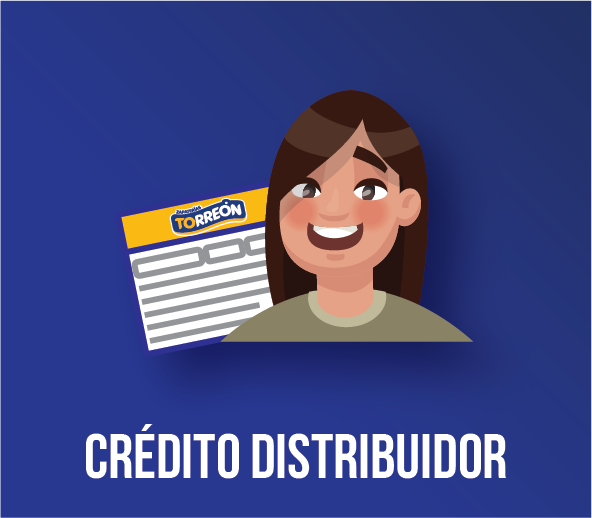
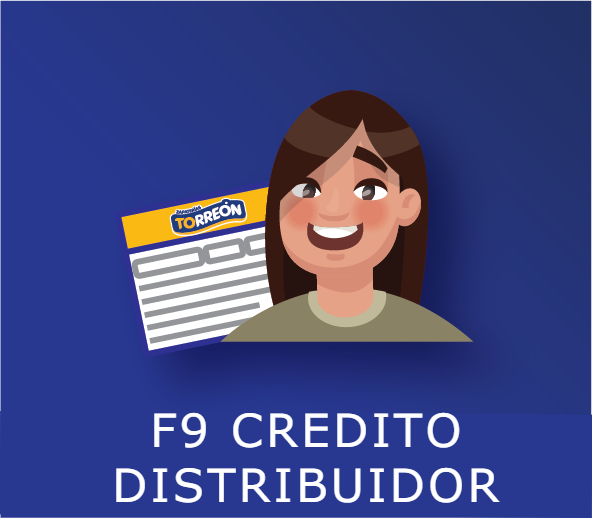
Actualizacion Botones Forma Pago con texto de sus teclas de Funcion correspondientes.

Changed region(s): [[0.1216, 0.7722, 0.8514, 0.9884], [0.8514, 0.9884, 1.0, 1.0]]

diff --git a/SirCoPOS.Client/Views/Tabs/CajaView4.xaml b/SirCoPOS.Client/Views/Tabs/CajaView4.xaml
@@ -23,6 +23,14 @@
         <c:FPagoToTextConverter x:Key="FPagoText" />
         <BooleanToVisibilityConverter x:Key="boolConv"/>
         <c:ValueVisibilityConverter x:Key="valvis"/>
+        <Style x:Key="ToolTipText" TargetType="TextBlock">
+            <Setter Property="HorizontalAlignment" Value="Center" />
+            <Setter Property="FontFamily" Value="Comic Sans MS"/>
+            <Setter Property="FontSize" Value="14"/>
+            <Setter Property="Background" Value="DeepSkyBlue"/>
+            <Setter Property="Foreground" Value="Black"/>
+            
+        </Style>
     </UserControl.Resources>
     <UserControl.DataContext>
         <vm:CajaViewModel/>
@@ -562,9 +570,9 @@
             </Grid>
         </tk:ChildWindow>
 
-        <tk:ChildWindow  Caption="Formas de Pago"  DesignerWindowState="Closed" WindowState="{Binding ShowPagos, Converter={StaticResource windowState}, Mode=TwoWay}" Height="570" Width="740" WindowStartupLocation="Center" IsModal="True" HorizontalAlignment="Left" VerticalAlignment="Top">
+        <tk:ChildWindow  Caption="Formas de Pago" DesignerWindowState="Closed" WindowState="{Binding ShowPagos, Converter={StaticResource windowState}, Mode=TwoWay}" Height="565" Width="745" WindowStartupLocation="Center" IsModal="True" HorizontalAlignment="Left"  VerticalAlignment="Top">
             <Grid>
-                <ItemsControl ItemsSource="{Binding FormasPago}" Padding="10">
+                <ItemsControl ItemsSource="{Binding FormasPago}">
                     <ItemsControl.ItemsPanel>
                         <ItemsPanelTemplate>
                             <WrapPanel Orientation="Horizontal"/>
@@ -573,15 +581,17 @@
                     <ItemsControl.ItemTemplate>
                         <DataTemplate>
                             <StackPanel>
-                                <Button Width="160" Height="140" Margin="0,0,10,10" IsEnabled="{Binding Value.Enabled}">
+                                <Button Width="170" Height="160" Margin="5,5,5,5" IsEnabled="{Binding Value.Enabled}" >
                                     <i:Interaction.Triggers>
                                         <i:EventTrigger EventName="Click">
                                             <i:InvokeCommandAction CommandParameter="{Binding Key}" Command="{Binding DataContext.AddFormaCommand, ElementName=dummyElement}"/>
                                         </i:EventTrigger>
                                     </i:Interaction.Triggers>
-                                    <Image Source="{Binding Key, Mode=OneWay, Converter={StaticResource ImgSource}}"  RenderOptions.BitmapScalingMode="NearestNeighbor" Stretch="UniformToFill"/>
+                                    <Image Source="{Binding Key, Mode=OneWay, Converter={StaticResource ImgSource}}"  RenderOptions.BitmapScalingMode="NearestNeighbor" Stretch="UniformToFill" HorizontalAlignment="Center" VerticalAlignment="Center"/>
                                     <Button.ToolTip>
-                                        <TextBlock Text="{Binding Key, Mode=OneWay, Converter={StaticResource FPagoText}}" />
+                                        <ToolTip Background="LightSteelBlue" Foreground="Black">
+                                            <TextBlock Text="{Binding Key, Mode=OneWay, Converter={StaticResource FPagoText}}"  FontSize="14" FontWeight="DemiBold"/>
+                                        </ToolTip>
                                     </Button.ToolTip>
                                 </Button>
                             </StackPanel>

diff --git a/SirCoPOS.Client/Converters/FPagoToTextConverter.cs b/SirCoPOS.Client/Converters/FPagoToTextConverter.cs
@@ -25,27 +25,27 @@ namespace SirCoPOS.Client.Converters
                 switch (value)
                 {
                     case SirCoPOS.Common.Constants.FormaPago.CD:
-                        return "CREDITO DISTRIBUIDOR";
+                        return "F9-CREDITO DISTRIBUIDOR";
                     case SirCoPOS.Common.Constants.FormaPago.CP:
-                        return "CREDITO PERSONAL";
+                        return "F8-CREDITO PERSONAL";
                     case SirCoPOS.Common.Constants.FormaPago.CV:
-                        return "CONTRAVALE";
+                        return "F7-CONTRAVALE";
                     case SirCoPOS.Common.Constants.FormaPago.DV:
-                        return "DEVOLUCION";
+                        return "F4-DEVOLUCION";
                     case SirCoPOS.Common.Constants.FormaPago.EF:
-                        return "EFECTIVO";
+                        return "F1-EFECTIVO";
                     case SirCoPOS.Common.Constants.FormaPago.TC:
-                        return "TARJETA DE CREDITO";
+                        return "F2-TARJETA DE CREDITO";
                     case SirCoPOS.Common.Constants.FormaPago.TD:
-                        return "TARJETA DE DEBITO";
+                        return "F3-TARJETA DE DEBITO";
                     case SirCoPOS.Common.Constants.FormaPago.VA:
-                        return "VALE";
+                        return "F6-VALE";
                     case SirCoPOS.Common.Constants.FormaPago.VD:
-                        return "VALE DIGITAL";
+                        return "F10-VALE DIGITAL";
                     case SirCoPOS.Common.Constants.FormaPago.MD:
-                        return "MONEDERO ELECTRONICO";
+                        return "F12-MONEDERO ELECTRONICO";
                     case SirCoPOS.Common.Constants.FormaPago.VE:
-                        return "VALE EXTERNO";
+                        return "F11-VALE EXTERNO";
                     case SirCoPOS.Common.Constants.FormaPago.GO:
                         return "GO PLAZOS";
                     default:
